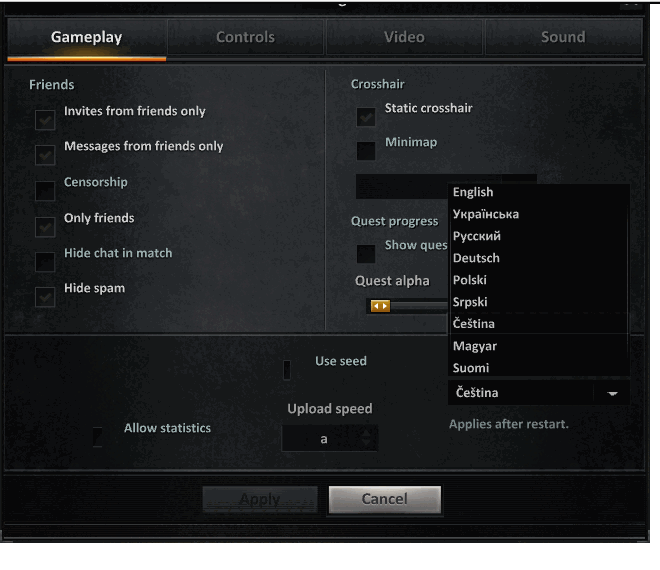
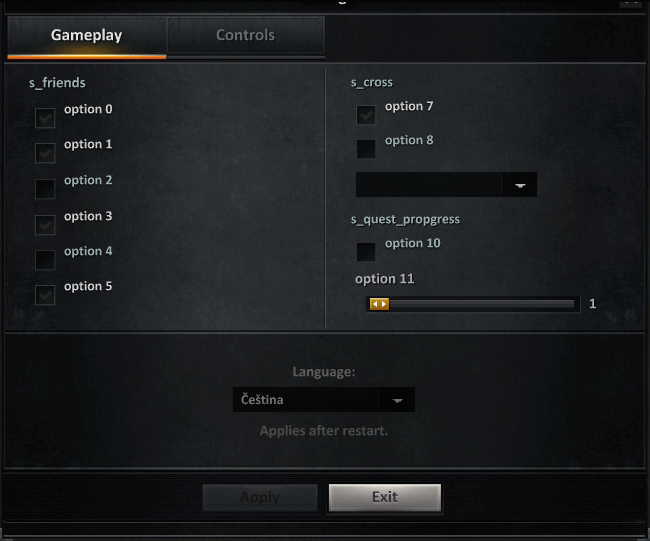
Language option: in the seeding panel, applied with Apply
- Hide "Enable seeding", "Limit upload speed" and "Enable statistics
  collection" (the old launcher's torrent; nothing in the 0.26g exe reads
  the statistics option). Hidden in the timeline class, not removed: the
  exe binds the gameplay options by their index in _element_map. The
  unplaced "Seeding in lobby" heading leaves the label map.
- Language takes their place, centred in the bottom panel: the label
  "Language:" in the style of the "Limit upload speed:" label, the list
  below it, the restart note under that.
- A pick is a pending change of the tab, counted in Settings' _changes:
  Apply sends it to the exe (srp_language, name), Cancel or leaving
  without Apply selects the saved language again. Settings owns the
  control (SrpLanguage) and receives the exe's answer (setLanguage).
- st_srp_language_option ends with a colon in every language.
- The Ruffle harness checks the place, the hidden options, the label
  style and the Apply/Cancel flow.

diff --git a/srp-026g/docs/notes/language-option.md b/srp-026g/docs/notes/language-option.md
@@ -7,11 +7,16 @@ the main menu movie (`flash/main_menu/src/SrpLanguage.as`).
 
 ## The choice
 
-- **Where:** Settings, Gameplay tab, bottom right: the heading "Language", a list of every registered
-  language by its own name (English, Українська, Русский, Deutsch, Polski, Srpski, Čeština, Magyar,
-  Suomi, ...), the saved one selected (in Ruffle: `../images/language-option.png`).
-- **A pick is saved at once** (no Apply): user.cfg is written at the pick, not only when the game
-  closes.
+- **Where:** Settings, Gameplay tab, the bottom panel, centred: the label "Language:" (styled as
+  the tab's option labels), a list of every registered language by its own name (English,
+  Українська, Русский, Deutsch, Polski, Srpski, Čeština, Magyar, Suomi, ...), the saved one selected
+  (in Ruffle: `../images/language-option.png`).
+- **The panel's old options are hidden:** "Enable seeding", "Limit upload speed" (the old launcher's
+  torrent) and "Enable statistics collection" (nothing in the 0.26g exe reads it). Hidden, not
+  removed: the exe binds the gameplay options by their index in the movie's `_element_map`.
+- **Apply saves a pick**, as any option of the tab: a pick enables Apply and Cancel; Apply sends it
+  to the exe, which writes user.cfg at once (not only when the game closes); Cancel, or leaving the
+  tab or Settings without Apply, puts the saved language back.
 - **Applies after restart:** the note "Applies after restart." shows while the saved language is not
   the running one. No live switch: the engine reads its language once, before the dictionary, the
   Flash texts, the swear filter and the chat language load.
